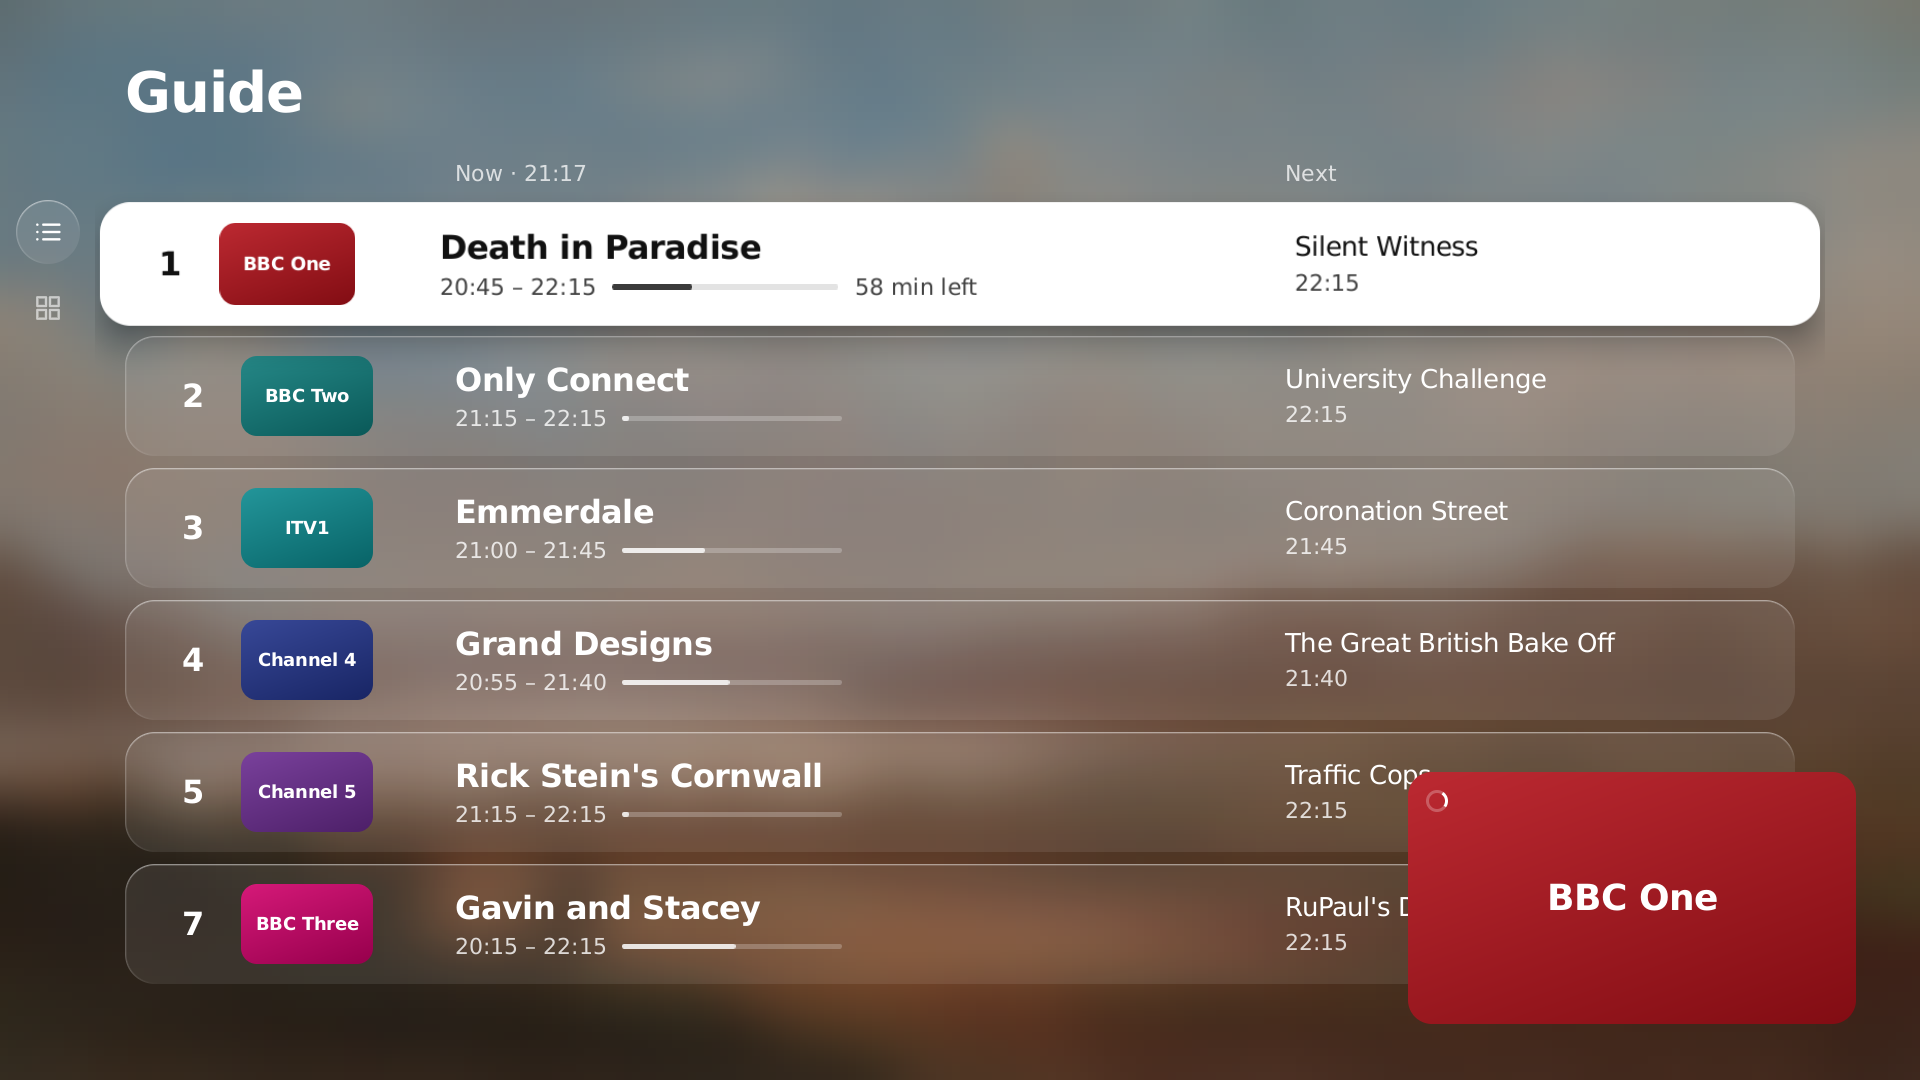
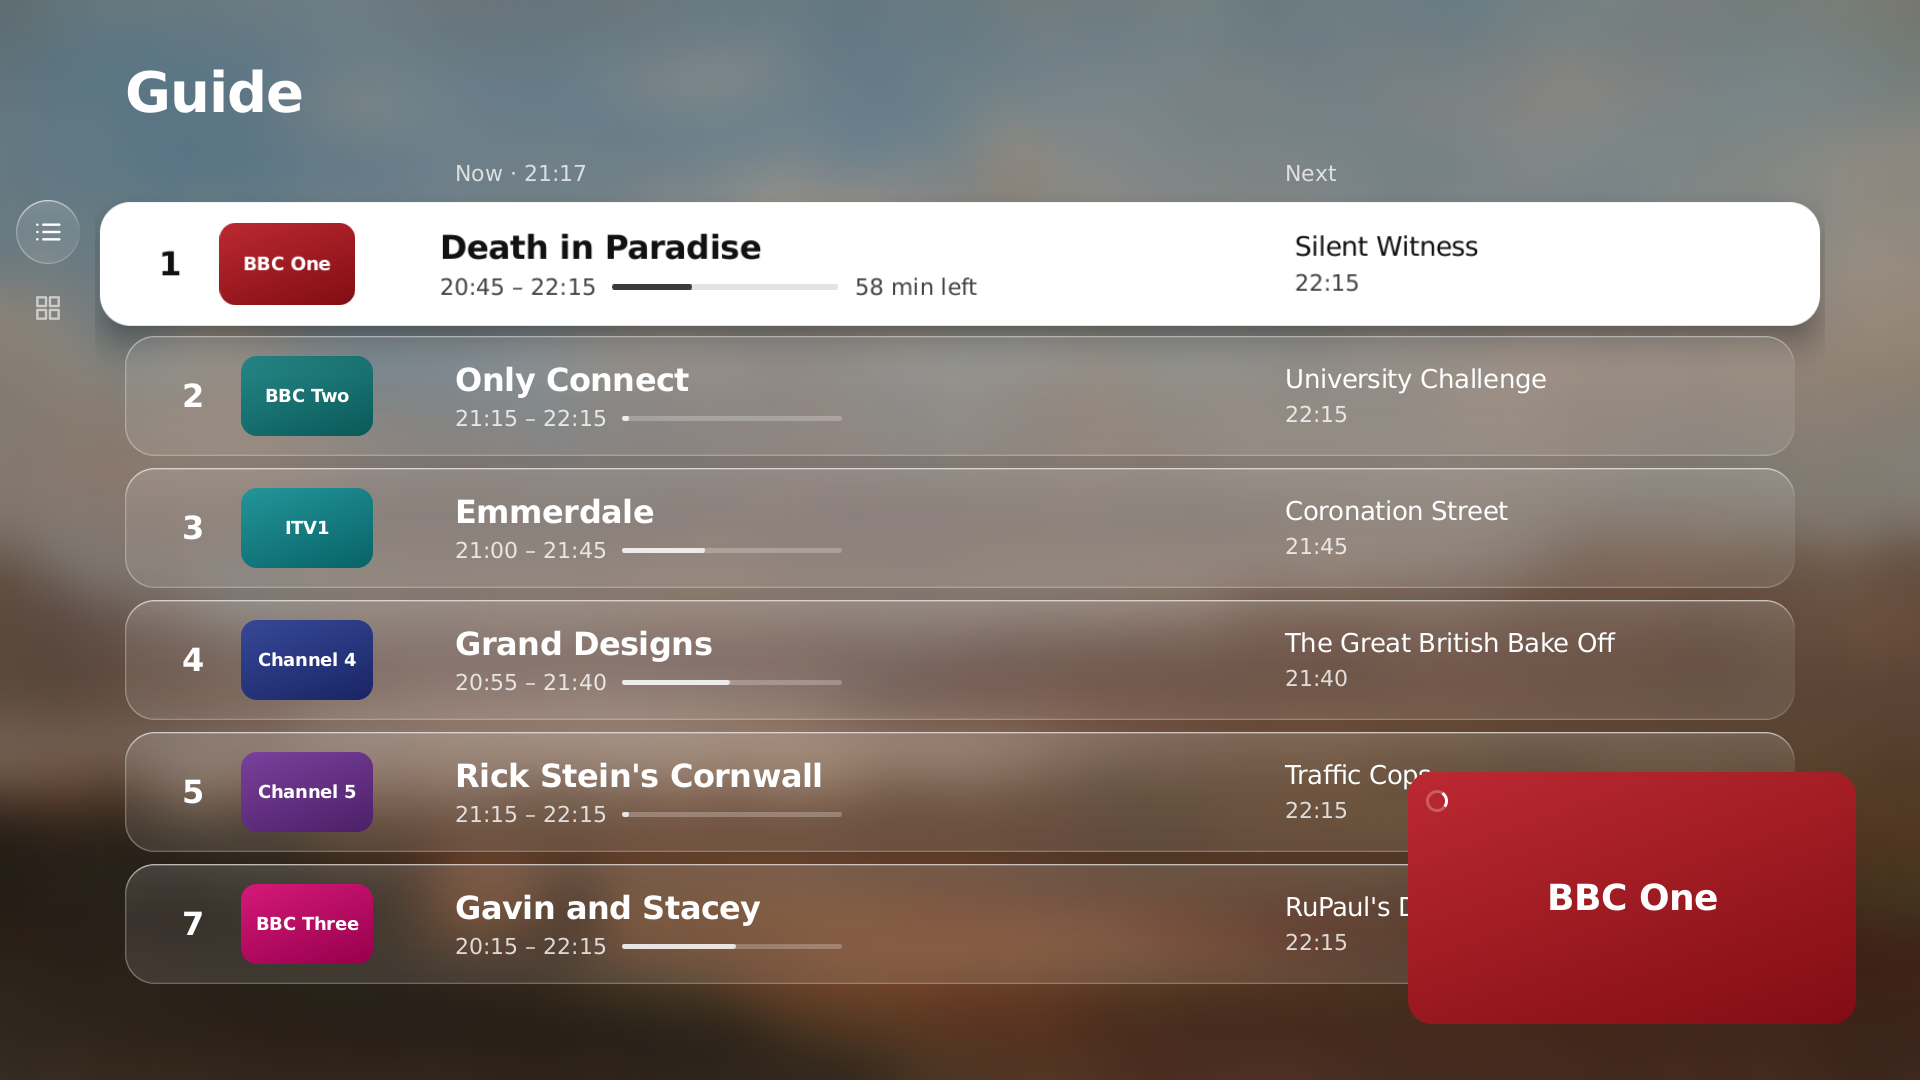
Lumen Native: the Guide's rows look like light glass, with a soft light along the top and a faint lower rim

diff --git a/native/lumen/src/guide.rs b/native/lumen/src/guide.rs
@@ -52,23 +52,28 @@ const STARTED_EARLIER: &str = "M15 5.5 8.5 12l6.5 6.5";
 const STARTED_EARLIER_W: f32 = 20.0;
 const GRID: &str = "M4 4h6.5v6.5H4zM13.5 4H20v6.5h-6.5zM4 13.5h6.5V20H4zM13.5 13.5H20V20h-6.5z";
 
-const ROW: Plate = Plate { h: ROW_H, radius: 30.0, fill: [1.0, 1.0, 1.0, 0.09], rim: 1.0, shadow: [0.0; 3], ring: 0.0 };
+fn glassy(d: &Draw, plate: &Plate) -> Plate {
+    Plate { sheen: d.look.guide_glass, rim: plate.rim * (1.0 + GLASS_RIM_GAIN * d.look.guide_glass), ..*plate }
+}
+
+const GLASS_RIM_GAIN: f32 = 0.3;
+const ROW: Plate = Plate { h: ROW_H, radius: 30.0, fill: [1.0, 1.0, 1.0, 0.09], rim: 1.0, shadow: [0.0; 3], ring: 0.0, sheen: 0.0 };
 const ROW_ON: Plate = Plate { fill: [1.0, 1.0, 1.0, 0.2], ..ROW };
 const ROW_FOCUS: Plate = Plate { fill: [1.0, 1.0, 1.0, 1.0], rim: 0.0, shadow: [18.0, 36.0, 0.32], ..ROW };
-const CELL: Plate = Plate { h: FG_ROW_H, radius: 18.0, fill: [1.0, 1.0, 1.0, 0.09], rim: 1.0, shadow: [0.0; 3], ring: 0.0 };
+const CELL: Plate = Plate { h: FG_ROW_H, radius: 18.0, fill: [1.0, 1.0, 1.0, 0.09], rim: 1.0, shadow: [0.0; 3], ring: 0.0, sheen: 0.0 };
 const CELL_ON: Plate = Plate { fill: [1.0, 1.0, 1.0, 0.2], ..CELL };
 const CELL_FOCUS: Plate = Plate { fill: [1.0, 1.0, 1.0, 1.0], rim: 0.0, shadow: [14.0, 30.0, 0.32], ..CELL };
-const METER: Plate = Plate { h: 5.0, radius: 2.5, fill: [1.0, 1.0, 1.0, 0.3], rim: 0.0, shadow: [0.0; 3], ring: 0.0 };
+const METER: Plate = Plate { h: 5.0, radius: 2.5, fill: [1.0, 1.0, 1.0, 0.3], rim: 0.0, shadow: [0.0; 3], ring: 0.0, sheen: 0.0 };
 const METER_FILL: Plate = Plate { fill: [1.0, 1.0, 1.0, 1.0], ..METER };
 const METER_FOCUS: Plate = Plate { fill: [0.0, 0.0, 0.0, 0.14], ..METER };
 const METER_FOCUS_FILL: Plate = Plate { fill: [FOCUS_INK[0], FOCUS_INK[1], FOCUS_INK[2], 1.0], ..METER };
-const PH: Plate = Plate { h: 28.0, radius: 8.0, fill: [1.0, 1.0, 1.0, 0.07], rim: 0.0, shadow: [0.0; 3], ring: 0.0 };
+const PH: Plate = Plate { h: 28.0, radius: 8.0, fill: [1.0, 1.0, 1.0, 0.07], rim: 0.0, shadow: [0.0; 3], ring: 0.0, sheen: 0.0 };
 const PH_FOCUS: Plate = Plate { fill: [0.0, 0.0, 0.0, 0.12], ..PH };
-const RAIL_ON: Plate = Plate { h: RAIL_ITEM, radius: 32.0, fill: [1.0, 1.0, 1.0, 0.09], rim: 1.0, shadow: [0.0; 3], ring: 0.0 };
+const RAIL_ON: Plate = Plate { h: RAIL_ITEM, radius: 32.0, fill: [1.0, 1.0, 1.0, 0.09], rim: 1.0, shadow: [0.0; 3], ring: 0.0, sheen: 0.0 };
 const RAIL_FOCUS: Plate = Plate { fill: [1.0, 1.0, 1.0, 1.0], rim: 0.0, ..RAIL_ON };
-const TYPED: Plate = Plate { h: 84.0, radius: 42.0, fill: [1.0, 1.0, 1.0, 0.16], rim: 1.3, shadow: [12.0, 28.0, 0.3], ring: 0.0 };
-const FLAG: Plate = Plate { h: 26.0, radius: 8.0, fill: [1.0, 1.0, 1.0, 0.85], rim: 0.0, shadow: [0.0; 3], ring: 2.0 };
-const NOW_LINE: Plate = Plate { h: 12.0, radius: 6.0, fill: [1.0, 1.0, 1.0, 1.0], rim: 0.0, shadow: [0.0; 3], ring: 0.0 };
+const TYPED: Plate = Plate { h: 84.0, radius: 42.0, fill: [1.0, 1.0, 1.0, 0.16], rim: 1.3, shadow: [12.0, 28.0, 0.3], ring: 0.0, sheen: 0.0 };
+const FLAG: Plate = Plate { h: 26.0, radius: 8.0, fill: [1.0, 1.0, 1.0, 0.85], rim: 0.0, shadow: [0.0; 3], ring: 2.0, sheen: 0.0 };
+const NOW_LINE: Plate = Plate { h: 12.0, radius: 6.0, fill: [1.0, 1.0, 1.0, 1.0], rim: 0.0, shadow: [0.0; 3], ring: 0.0, sheen: 0.0 };
 
 #[derive(Clone, Copy, PartialEq, Debug)]
 enum View {
@@ -541,7 +546,7 @@ impl Guide {
         let at_x = |px: f32| ox + (px - ox) * s;
         let at_y = |py: f32| oy + (py - oy) * s;
         let plate = if over && i == self.at && self.on_rail { ROW_ON } else { ROW };
-        d.plate(&plate, at_x(x), at_y(y), w * s, ROW_H * s, 1.0);
+        d.plate(&glassy(d, &plate), at_x(x), at_y(y), w * s, ROW_H * s, 1.0);
         if focused {
             d.plate(&ROW_FOCUS, at_x(x), at_y(y), w * s, ROW_H * s, 1.0);
         }
@@ -714,7 +719,7 @@ impl Guide {
             let c = &live.channels[i];
             let y = FG_TOP + 10.0 + (i as f32 - top) * FG_STEP;
             let is_at = i == self.at;
-            d.plate(if is_at { &CELL_ON } else { &CELL }, EDGE, y, 360.0, FG_ROW_H, 1.0);
+            d.plate(&glassy(d, if is_at { &CELL_ON } else { &CELL }), EDGE, y, 360.0, FG_ROW_H, 1.0);
             if let Some(num) = d.text(&c.number, &white(26, "600")) {
                 num.draw(d, EDGE + 38.0 - num.advance / 2.0, y + 44.0, 1.0);
             }
@@ -732,7 +737,7 @@ impl Guide {
                     let left = FG_LINE + (a * GRID_W).round();
                     let width = ((b - a) * GRID_W).round() - 8.0;
                     let lit = row_focus && k == 0;
-                    d.plate(if lit { &CELL_FOCUS } else { &CELL }, left, y, width, FG_ROW_H, if loading || lit { 1.0 } else { 0.6 });
+                    d.plate(&if lit { CELL_FOCUS } else { glassy(d, &CELL) }, left, y, width, FG_ROW_H, if loading || lit { 1.0 } else { 0.6 });
                     if loading {
                         let ph = if lit { PH_FOCUS } else { PH };
                         d.plate(&ph, left + 18.0, y + 15.0, (width - 36.0) * 0.7, 22.0, 1.0);
@@ -751,7 +756,7 @@ impl Guide {
                 }
                 let lit = row_focus && focused.is_some_and(|f| std::ptr::eq(f, p));
                 let alpha = if lit { 1.0 } else if p.end <= t { 0.55 } else { 1.0 };
-                d.plate(if lit { &CELL_FOCUS } else { &CELL }, FG_LINE + left, y, width, FG_ROW_H, alpha);
+                d.plate(&if lit { CELL_FOCUS } else { glassy(d, &CELL) }, FG_LINE + left, y, width, FG_ROW_H, alpha);
                 if width > 60.0 {
                     let ink = if lit { FOCUS_INK } else { WHITE };
                     let began_earlier = p.start < win;
@@ -820,7 +825,7 @@ impl Guide {
             let w = if self.on_rail { open_w } else { RAIL_ITEM };
             let alpha = if focused || (on && !self.on_rail) { 1.0 } else if self.on_rail { 0.85 } else { 0.6 };
             if on {
-                d.plate(&RAIL_ON, 16.0, y, w, RAIL_ITEM, 1.0);
+                d.plate(&glassy(d, &RAIL_ON), 16.0, y, w, RAIL_ITEM, 1.0);
             }
             if focused {
                 d.plate(&RAIL_FOCUS, 16.0, y, w, RAIL_ITEM, 1.0);
@@ -842,7 +847,7 @@ impl Guide {
         let Some(text) = d.text(&self.typed, &style(56, "600", 0.04, WHITE)) else { return };
         let w = (text.advance + 68.0).max(150.0);
         let (x, y) = (DESIGN_W / 2.0 - w / 2.0, 50.0);
-        d.plate(&TYPED, x, y, w, 84.0, 1.0);
+        d.plate(&glassy(d, &TYPED), x, y, w, 84.0, 1.0);
         text.draw(d, DESIGN_W / 2.0 - text.advance / 2.0, y + 42.0 + 20.0, if hit { 1.0 } else { 0.55 });
     }
 }

diff --git a/native/lumen/src/draw.rs b/native/lumen/src/draw.rs
@@ -76,6 +76,7 @@ pub struct Plate {
     pub rim: f32,
     pub shadow: [f32; 3],
     pub ring: f32,
+    pub sheen: f32,
 }
 
 pub struct Decoded {
@@ -219,7 +220,7 @@ impl Draw {
 
     pub fn plate(&mut self, p: &Plate, x: f32, y: f32, w: f32, h: f32, alpha: f32) {
         let margin = (p.shadow[0].abs() + p.shadow[1]).ceil();
-        let key = format!("plate:{}:{}:{:?}:{}:{:?}:{}", p.h, p.radius, p.fill, p.rim, p.shadow, p.ring);
+        let key = format!("plate:{}:{}:{:?}:{}:{:?}:{}:{}", p.h, p.radius, p.fill, p.rim, p.shadow, p.ring, p.sheen);
         let picture = match self.pictures.find(&key) {
             Some(picture) => picture,
             None => {
@@ -370,6 +371,15 @@ impl Draw {
     }
 }
 
+const SHEEN_LOWER_RIM: f32 = 0.18;
+const SHEEN_TOP: f32 = 0.07;
+const SHEEN_BOTTOM: f32 = 0.02;
+
+fn sheen_at(down: f32) -> f32 {
+    let down = down.clamp(0.0, 1.0);
+    if down < 0.55 { SHEEN_TOP * (1.0 - down / 0.55).powi(2) } else { SHEEN_BOTTOM * ((down - 0.55) / 0.45) }
+}
+
 fn plate_picture(p: &Plate, margin: f32) -> Decoded {
     let (w, h) = ((2.0 * (p.radius + margin) + 2.0) as usize, (p.h + 2.0 * margin) as usize);
     let half = [(w as f32 - 2.0 * margin) / 2.0, p.h / 2.0];
@@ -390,9 +400,10 @@ fn plate_picture(p: &Plate, margin: f32) -> Decoded {
             let blur = p.shadow[1].max(1.0);
             let shadow = p.shadow[2] * (1.0 - ((sd + 0.6 * blur) / (1.6 * blur)).clamp(0.0, 1.0)).powi(2);
             let edge = 1.0 - ((-d - 0.5) / 1.5).clamp(0.0, 1.0);
-            let rim = p.rim * edge * (0.45 * (-n[1]).max(0.0) + 0.2 * (-n[0]).max(0.0));
-            let fill_a = p.fill[3] + (1.0 - p.fill[3]) * rim;
-            let fill_rgb: Vec<f32> = (0..3).map(|c| (p.fill[c] * p.fill[3] * (1.0 - rim) + rim) / fill_a.max(0.0001)).collect();
+            let rim = p.rim * edge * (0.45 * (-n[1]).max(0.0) + 0.2 * (-n[0]).max(0.0) + SHEEN_LOWER_RIM * p.sheen * n[1].max(0.0));
+            let light = (rim + p.sheen * sheen_at((cy + half[1]) / p.h)).min(1.0);
+            let fill_a = p.fill[3] + (1.0 - p.fill[3]) * light;
+            let fill_rgb: Vec<f32> = (0..3).map(|c| (p.fill[c] * p.fill[3] * (1.0 - light) + light) / fill_a.max(0.0001)).collect();
             let a_shape = fill_a * cover;
             let out_a = a_shape + (1.0 - a_shape) * shadow;
             let at = (py * w + px) * 4;

diff --git a/native/lumen/src/home.rs b/native/lumen/src/home.rs
@@ -93,9 +93,9 @@ const LIVE_BELOW: f32 = 150.0;
 const LIVE_INFO_GAP: f32 = 36.0;
 const LIVE_INFO_W: f32 = livetv::LIVE_INFO_W;
 const GUIDE_GLYPH: &str = "M3.5 5.5h17v13h-17zM3.5 9.5h17M9 9.5v9";
-const BAR_PLATE: Plate = Plate { h: 6.0, radius: 3.0, fill: [1.0, 1.0, 1.0, 0.22], rim: 0.0, shadow: [0.0; 3], ring: 0.0 };
+const BAR_PLATE: Plate = Plate { h: 6.0, radius: 3.0, fill: [1.0, 1.0, 1.0, 0.22], rim: 0.0, shadow: [0.0; 3], ring: 0.0, sheen: 0.0 };
 const BAR_FILL: Plate = Plate { fill: [1.0, 1.0, 1.0, 1.0], ..BAR_PLATE };
-const METER: Plate = Plate { h: 5.0, radius: 2.5, fill: [1.0, 1.0, 1.0, 0.3], rim: 0.0, shadow: [0.0; 3], ring: 0.0 };
+const METER: Plate = Plate { h: 5.0, radius: 2.5, fill: [1.0, 1.0, 1.0, 0.3], rim: 0.0, shadow: [0.0; 3], ring: 0.0, sheen: 0.0 };
 const METER_FILL: Plate = Plate { fill: [1.0, 1.0, 1.0, 1.0], ..METER };
 
 const TIME_SHADOW: [Shadow; 1] = [Shadow { drop: 4, blur: 24, strength: 0.28 }];

diff --git a/native/lumen/src/look.rs b/native/lumen/src/look.rs
@@ -61,6 +61,7 @@ look! {
     tint = 0.3, 0.0, 1.0;
     finish = 0.0, 0.0, 1.0;
     glass_shadow = 0.1, 0.0, 1.0;
+    guide_glass = 1.0, 0.0, 4.0;
     cc_close_ms = 280.0, 1.0, 2000.0;
     cc_close_to = 0.25, 0.0, 1.0;
     cc_close_fade = 0.3, 0.0, 1.0;
